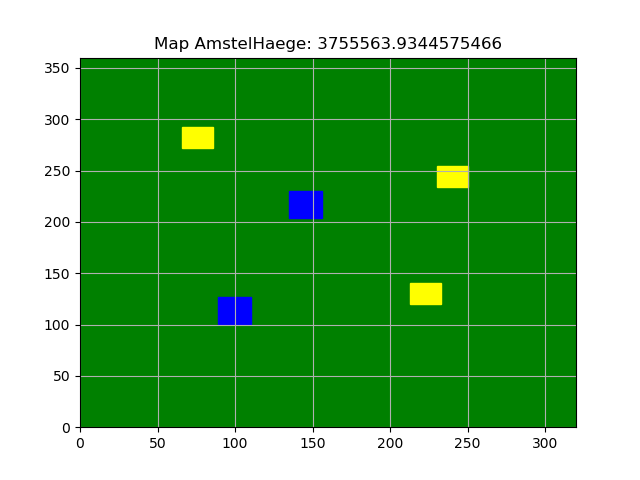
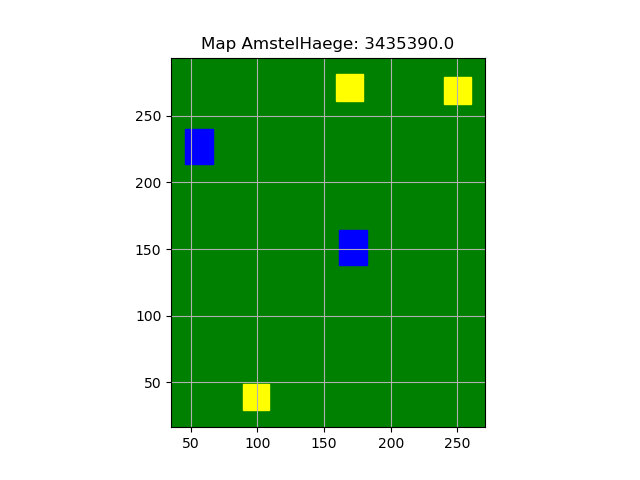
hillclimber.py

diff --git a/AmstelHaege/code/hill_climber.py b/AmstelHaege/code/hill_climber.py
@@ -5,39 +5,112 @@ from random import randint
 import matplotlib.pyplot as plt
 from class_house import House_types, House, Bungalow, Maison
 from class_area import Area
+import greedy_obj_func
+import datetime
 
 TOTAL_HOUSES = [20, 40, 60]
 PERCENTAGES = [0.15, 0.35, 0.6]
 WIDTH = 320
 HEIGHT = 360
 
-def main():
+def hill_climber(amstelhaege, x, y, index, counter_iteration):
+    """
+    The basics of the hill climber.
+    """
 
-    rdm_amstelhaege = Area(3)
-    rdm_amstelhaege.place_houses()
-    rdm_amstelhaege.calculate_totalvalue()
-    total_value = rdm_amstelhaege.value
-    rdm_amstelhaege.plot_distribution()
+    total_value = amstelhaege.value
     print(total_value)
 
-    for house in rdm_amstelhaege.houses_placed:
-        index = 0
-        new_x = randint(0, rdm_amstelhaege.width)
-        new_y = randint(0, rdm_amstelhaege.height)
-        old_x = house.x
-        old_y = house.y
+    old_x = amstelhaege.houses_placed[index].x
+    old_y = amstelhaege.houses_placed[index].y
 
-        rdm_amstelhaege.move_house(index, new_x, new_y)
+    list_random_climber_values = []
+    list_x_values = []
 
-        if rdm_amstelhaege.legit_placement(house):
-            rdm_amstelhaege.calculate_totalvalue()
+    amstelhaege.move_house(index,y,x)
 
-            if rdm_amstelhaege.value > total_value:
-                total_value = rdm_amstelhaege.value
-                rdm_amstelhaege.plot_distribution()
-                print(total_value)
+    not_possible = 0
+    if not amstelhaege.houses_placed[index].in_map():
+        not_possible += 1
+        amstelhaege.move_house(index, old_x, old_y)
+
+    else:
+        for object in amstelhaege.houses_placed:
+            if not object == amstelhaege.houses_placed[index]:
+                if amstelhaege.houses_placed[index].intersect(object):
+                    not_possible += 1
+                    amstelhaege.move_house(index, old_x, old_y)
+
+    if not_possible == 0:
+
+        amstelhaege.calculate_totalvalue()
+
+
+        if amstelhaege.value > total_value:
+
+            list_x_values.append(counter_iteration)
+
+            list_random_climber_values.append(amstelhaege.value)
+            total_value = amstelhaege.value
+
         else:
-            rdm_amstelhaege.move_house(index, old_x, old_y)
+            amstelhaege.move_house(index, old_x, old_y)
+
+    return list_x_values
+
+
+def hill_climber_random(amstelhaege):
+    """
+    This hill climber selects random houses and places those on random coordinates.
+    """
+    counter_iteration = 0
+
+    starttime = datetime.datetime.now()
+    print(starttime.strftime("%Y-%m-%d %H:%M:%S") +"\n")
+
+
+    for i in range(1000):
+        counter_iteration += 1
+        index = randint(0, (len(amstelhaege.houses_placed) - 1))
+        y = randint(0, HEIGHT)
+        x = randint(0, WIDTH)
+
+        hill_climber(amstelhaege, x, y, index, counter_iteration)
+
+
+    endtime = datetime.datetime.now()
+    print(endtime.strftime("%Y-%m-%d %H:%M:%S")+ "\n")
+
+    amstelhaege.calculate_totalvalue()
+    print(amstelhaege.value)
+
+    fig = amstelhaege.plot_distribution()
+    fig.savefig('test10.png')
+    plt.close(fig)
+    # print(list_random_climber_values)
+
+
+    # plt.plot(list_x_values, list_random_climber_values, color = 'lightseagreen')
+    # plt.title("Random Hillclimber")
+    # plt.grid(True)
+    # plt.show()
+
+def hill_climber_random_systematic(amstelhaege):
+    """
+    This hill climber selects houses randomly, but changes the coordinates systematically.
+    """
+
+def hil_climber_systematic(amstelhaege):
+    """
+    This hill climber uses houses in the order it was initially placed and changes the coordinates systematically.
+    """
+
+
 
 if __name__ == "__main__":
-    main()
+    amstelhaege_random = Area(5)
+    amstelhaege_random.place_houses()
+    # amstelhaege_greedy = greedy_obj_func.greedy_obj(5)
+
+    hill_climber_random(amstelhaege_random)
+    # hill_climber_random_systematic(amstelhaege_random)

diff --git a/AmstelHaege/code/main.py b/AmstelHaege/code/main.py
@@ -1,6 +1,10 @@
 # importeer de gebruikte structuur
-from datastructuur import DataStructuur
-
+import csv
+import pandas as pd
+from class_house import House_types, House, Bungalow, Maison
+from class_area import Area
+import greedy_obj_func
+import hill_climber
 def main():
     A = DataStructuur("voorbeeld.csv")
 
